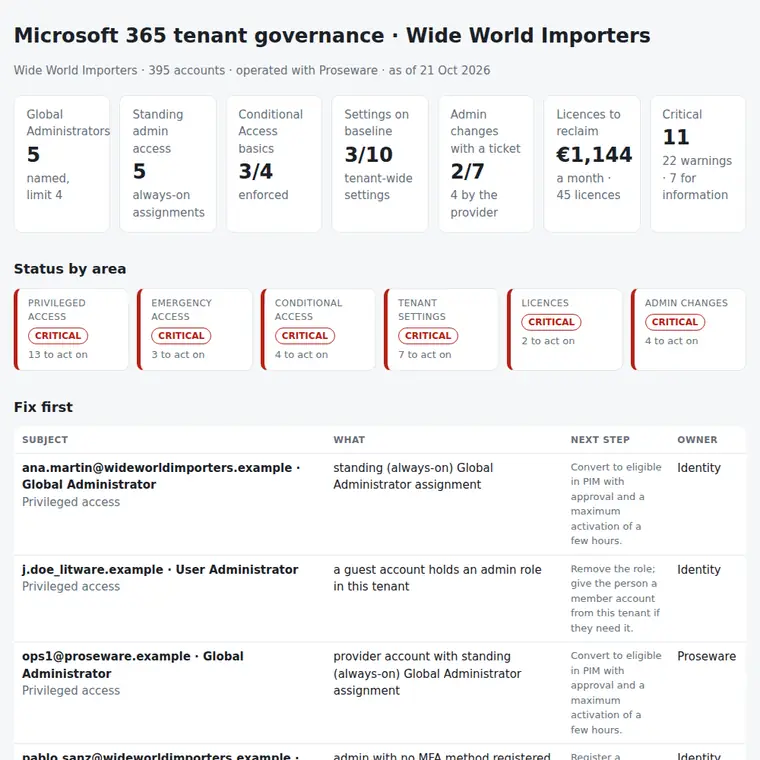
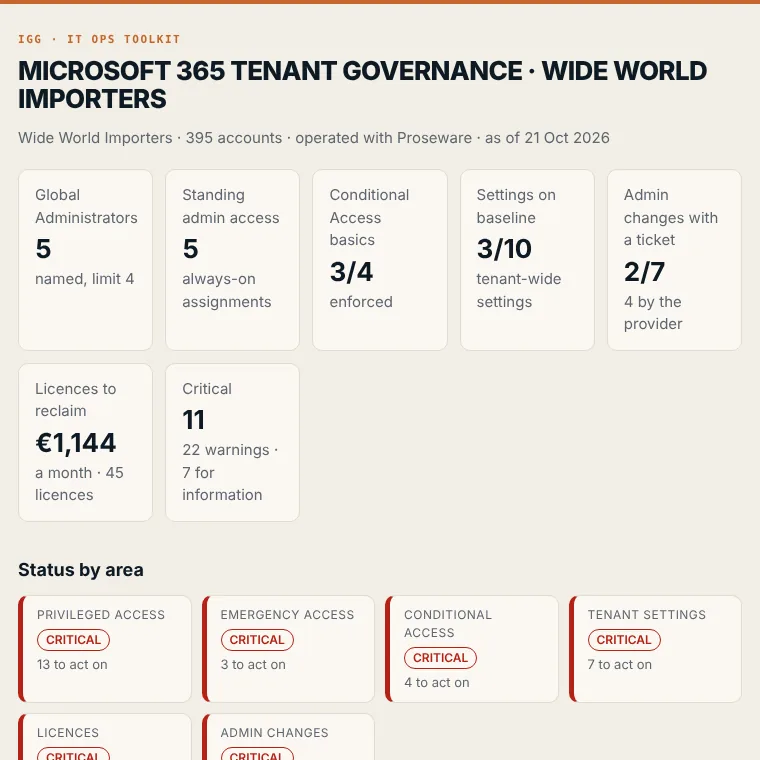
Report: IGG colours (paper, ink and the orange accent) and a new screenshot

diff --git a/tenantgov/report.py b/tenantgov/report.py
@@ -126,9 +126,9 @@ def review_md(t: Tenant, findings: list[Finding], c: Config | None = None) -> st
 
 
 CSS = """
-:root{--bg:#f6f7f8;--card:#fff;--ink:#1b2128;--muted:#66717c;--line:#e2e5e9;--ok:#1e7a4c;--warn:#a46200;--bad:#b42318;--info:#0b6bcb;--na:#8a94a0}
-@media (prefers-color-scheme:dark){:root{--bg:#13171b;--card:#1b2127;--ink:#e7eaee;--muted:#9aa5b0;--line:#2b333b;--ok:#4cc38a;--warn:#f0a83a;--bad:#f2685c;--info:#5aa9f0;--na:#6d7782}}
-*{box-sizing:border-box}body{margin:0;background:var(--bg);color:var(--ink);font:15px/1.5 system-ui,-apple-system,Segoe UI,sans-serif}
+:root{--bg:#f2eee6;--card:#fbf8f3;--ink:#0e1a24;--muted:#5d6670;--line:#e2dccf;--ok:#1e7a4c;--warn:#a46200;--bad:#b42318;--info:#1f5f8b;--na:#8a94a0}
+@media (prefers-color-scheme:dark){:root{--bg:#0e1a24;--card:#142331;--ink:#f2eee6;--muted:#a9b3bb;--line:#24364a;--ok:#4cc38a;--warn:#f0a83a;--bad:#f2685c;--info:#5aa9f0;--na:#6d7782}}
+*{box-sizing:border-box}body{border-top:4px solid #c4672b}h1{font-weight:800;letter-spacing:-.025em;text-transform:uppercase;line-height:1.05}h1::before{content:"IGG · IT Ops toolkit";display:block;font:600 11px/1.4 ui-monospace,SFMono-Regular,Menlo,monospace;letter-spacing:.14em;text-transform:uppercase;color:#c4672b;margin-bottom:10px}body{margin:0;background:var(--bg);color:var(--ink);font:15px/1.5 system-ui,-apple-system,Segoe UI,sans-serif}
 main{max-width:1100px;margin:0 auto;padding:28px 18px 60px}h1{font-size:26px;margin:0 0 4px}h2{font-size:18px;margin:34px 0 12px}
 .muted{color:var(--muted)}.tiles{display:grid;grid-template-columns:repeat(auto-fit,minmax(118px,1fr));gap:12px;margin-top:20px}
 .tile{background:var(--card);border:1px solid var(--line);border-radius:10px;padding:14px 16px}.tile b{display:block;font-size:26px}
